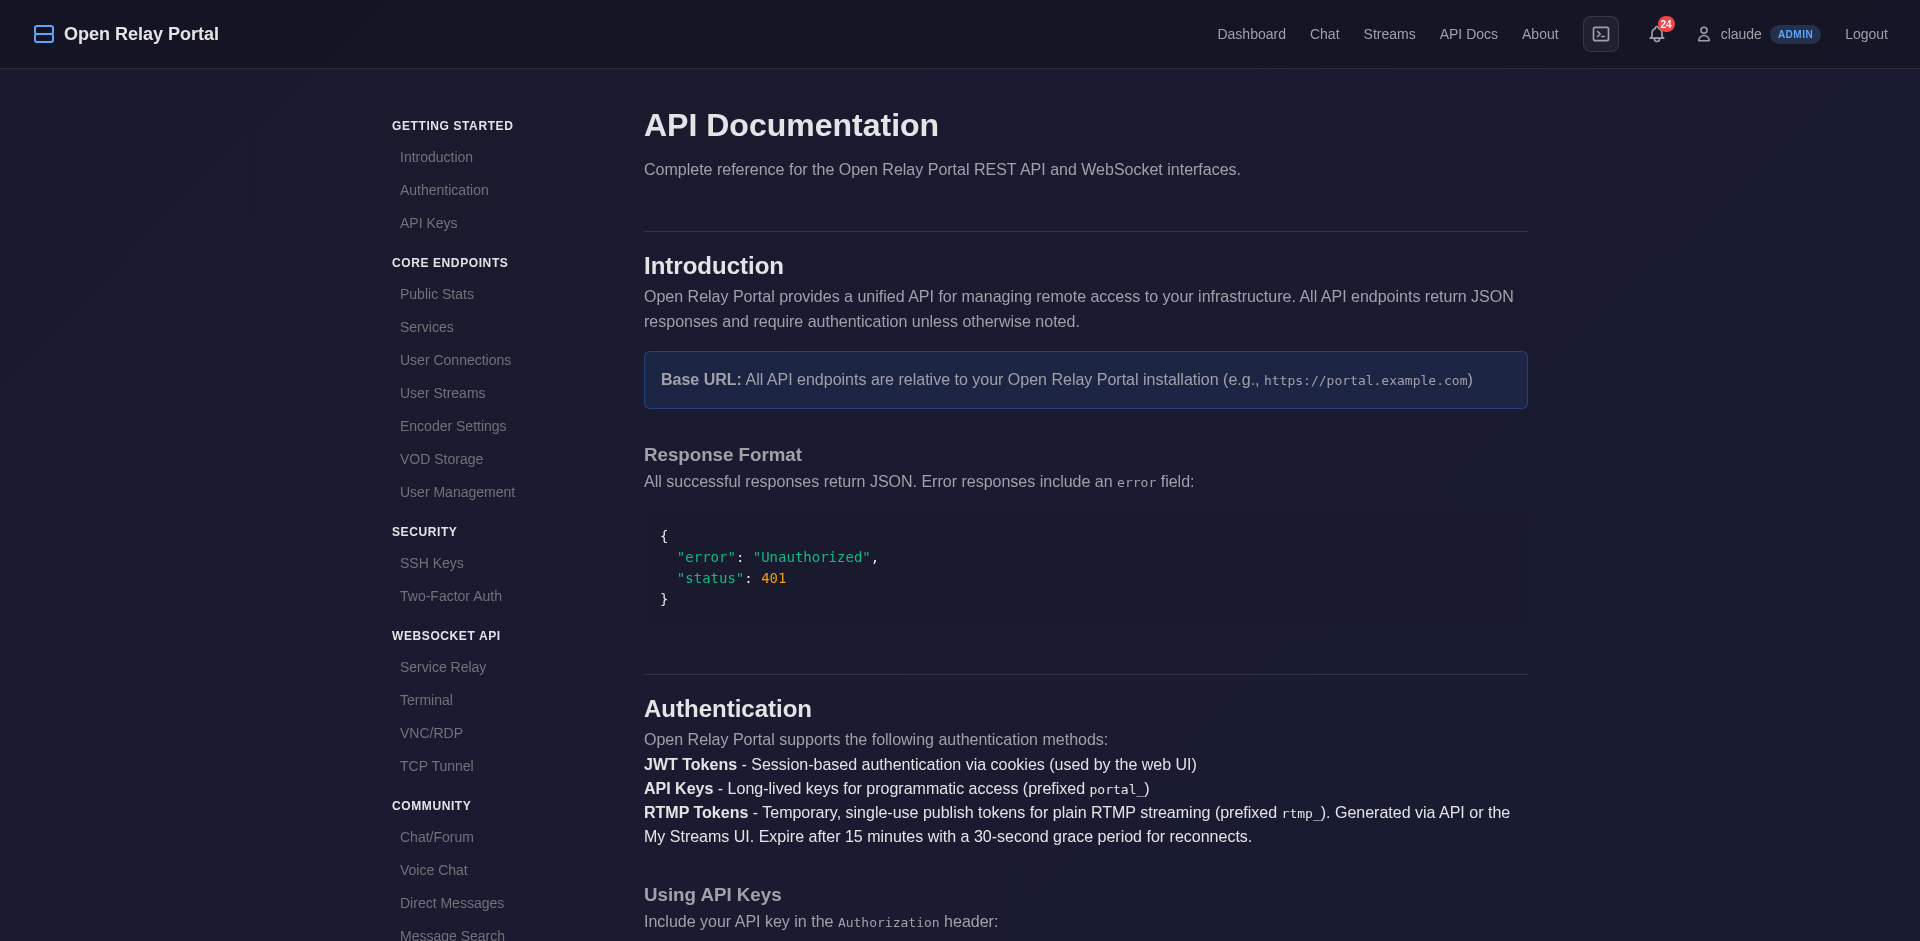
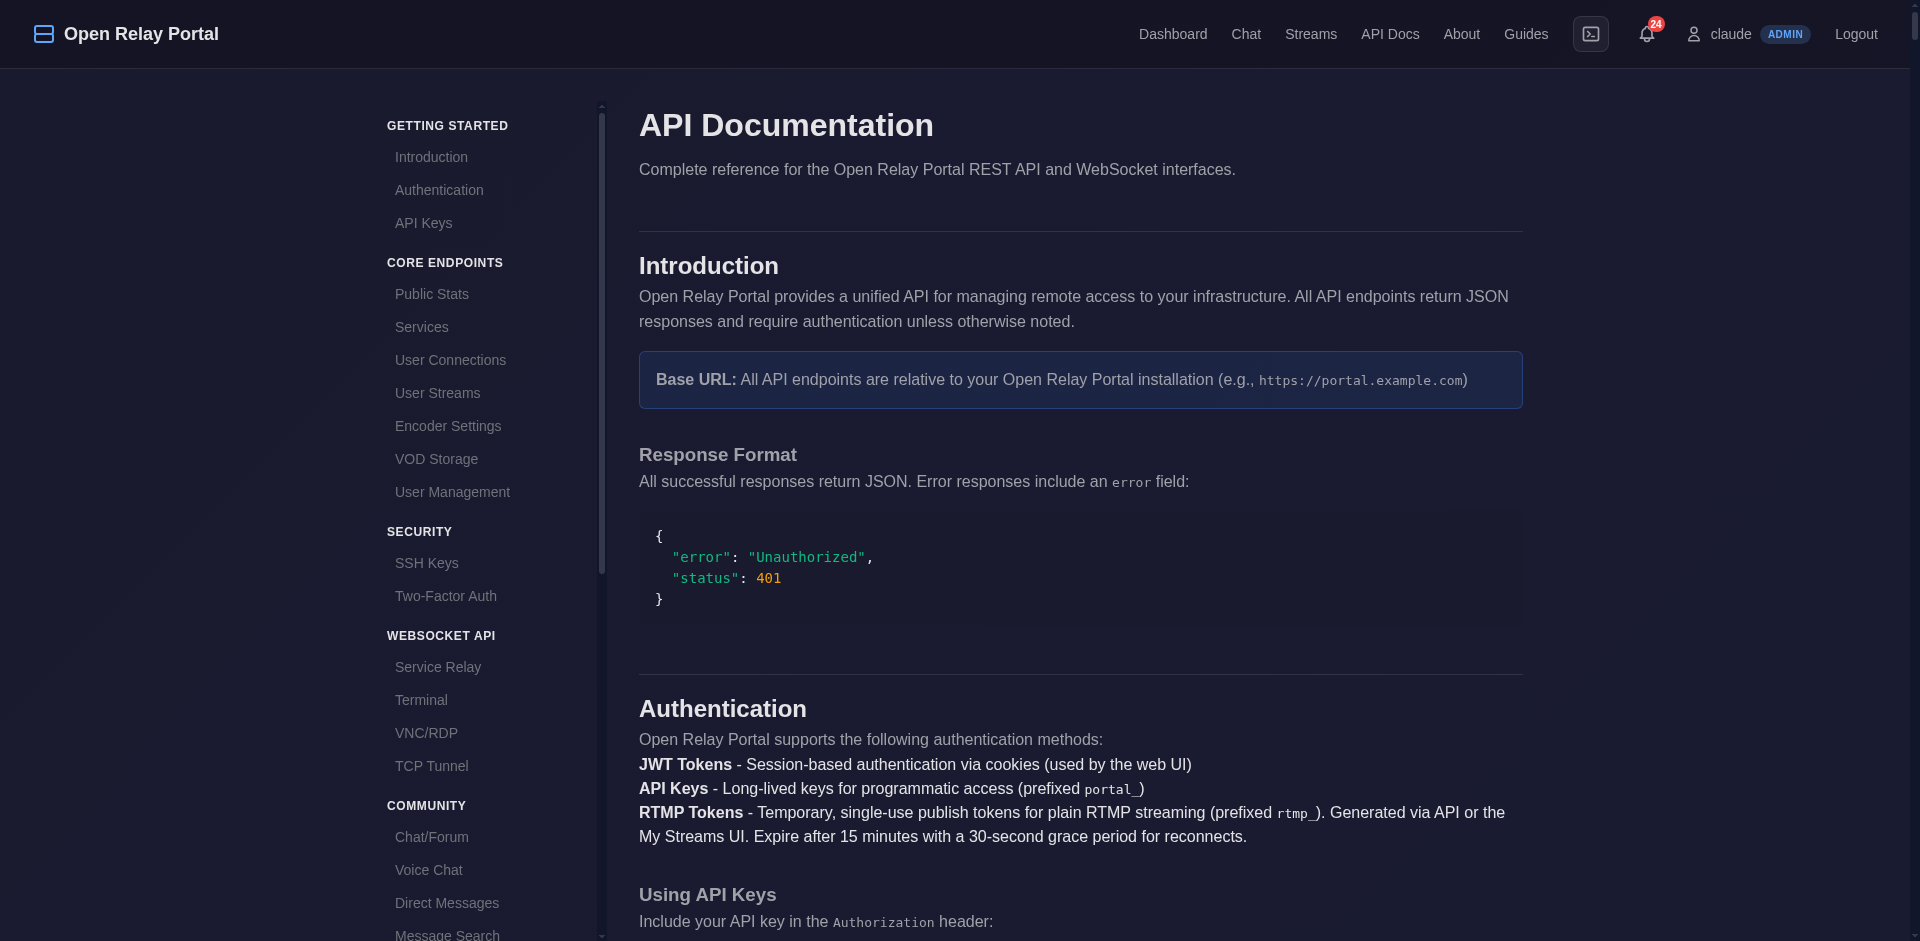
Update all screenshots and README for current UI state
- Retake all 11 existing screenshots with current UI (75 connection types,
  Guides navbar, System tab with data, updated admin panel)
- Add 2 new screenshots: guides.png and guides-detail.png for the new
  Connection Setup Guides page
- Fix DMs screenshot to show actual DM conversation instead of channels view
- Update README: 75 connection types (was 29), add Guides screenshot,
  add guide-detail screenshot in details section

diff --git a/README.md b/README.md
@@ -48,7 +48,7 @@ Full-text search across channels and DMs powered by FTS5. Filter by user, date r
 WebRTC peer-to-peer voice with DTLS-SRTP encryption. Push-to-talk or voice activity detection. No audio ever touches the server — true end-to-end.
 
 ### Remote Access
-SSH terminals, VNC desktops, RDP sessions, SPICE consoles, database connections, Proxmox management — all through your browser over WSS. 29 connection types supported. Quick Add bar lets any user create common connections (SSH, VNC, RDP, MySQL, PostgreSQL, Proxmox, HTTP Proxy) with one click. No VPN required.
+SSH terminals, VNC desktops, RDP sessions, SPICE consoles, database connections, Proxmox management — all through your browser over WSS. 75 connection types supported across 17 categories, with setup guides for each. Quick Add bar lets any user create common connections (SSH, VNC, RDP, MySQL, PostgreSQL, Proxmox, HTTP Proxy) with one click. No VPN required.
 
 ### File Management
 Browse and edit files on the server or on remote machines via SFTP. Upload, download, create, rename, delete — all from the web UI. Commander-style dual-pane file manager when multiple SFTP connections exist, enabling drag-and-drop transfers between remote hosts.
@@ -107,6 +107,9 @@ User management with role hierarchy (Super Admin / Admin / Moderator / User), in
 ![API Docs](docs/screenshots/api-docs.png)
 *API Documentation — Interactive endpoint reference*
 
+![Guides](docs/screenshots/guides.png)
+*Connection Setup Guides — Step-by-step documentation for all 75 connection types*
+
 <details>
 <summary>More screenshots</summary>
 
@@ -118,6 +121,9 @@ User management with role hierarchy (Super Admin / Admin / Moderator / User), in
 
 ![System Services](docs/screenshots/sysmon-services.png)
 *Systemd service management*
+
+![Guide Detail](docs/screenshots/guides-detail.png)
+*Guide detail — Requirements, setup steps, and security best practices per type*
 
 </details>
 
@@ -202,7 +208,7 @@ Playback is HLS over HTTPS. VODs are automatically recorded as 5-minute MKV chun
 
 ## Connection Types
 
-SSH, VNC, RDP, SPICE, SFTP, Proxmox, HTTP Proxy, TCP Tunnel, MongoDB, Elasticsearch, Redis, PostgreSQL, MySQL, Home Assistant, Portainer, TrueNAS, pfSense, Jupyter, Grafana, Prometheus, Telnet, Minecraft RCON, and more.
+75 types across 17 categories: Remote Access (SSH, VNC, RDP, SPICE, SFTP, Telnet), Media Servers, *arr Stack, Download Clients, Files & Photos, Virtualization, Home Automation, Security, Monitoring, Dashboards, Dev Tools, Databases, Networking, and more. Each type has a dedicated [setup guide](/guides) with requirements, configuration steps, and security best practices.
 
 ## API
 
